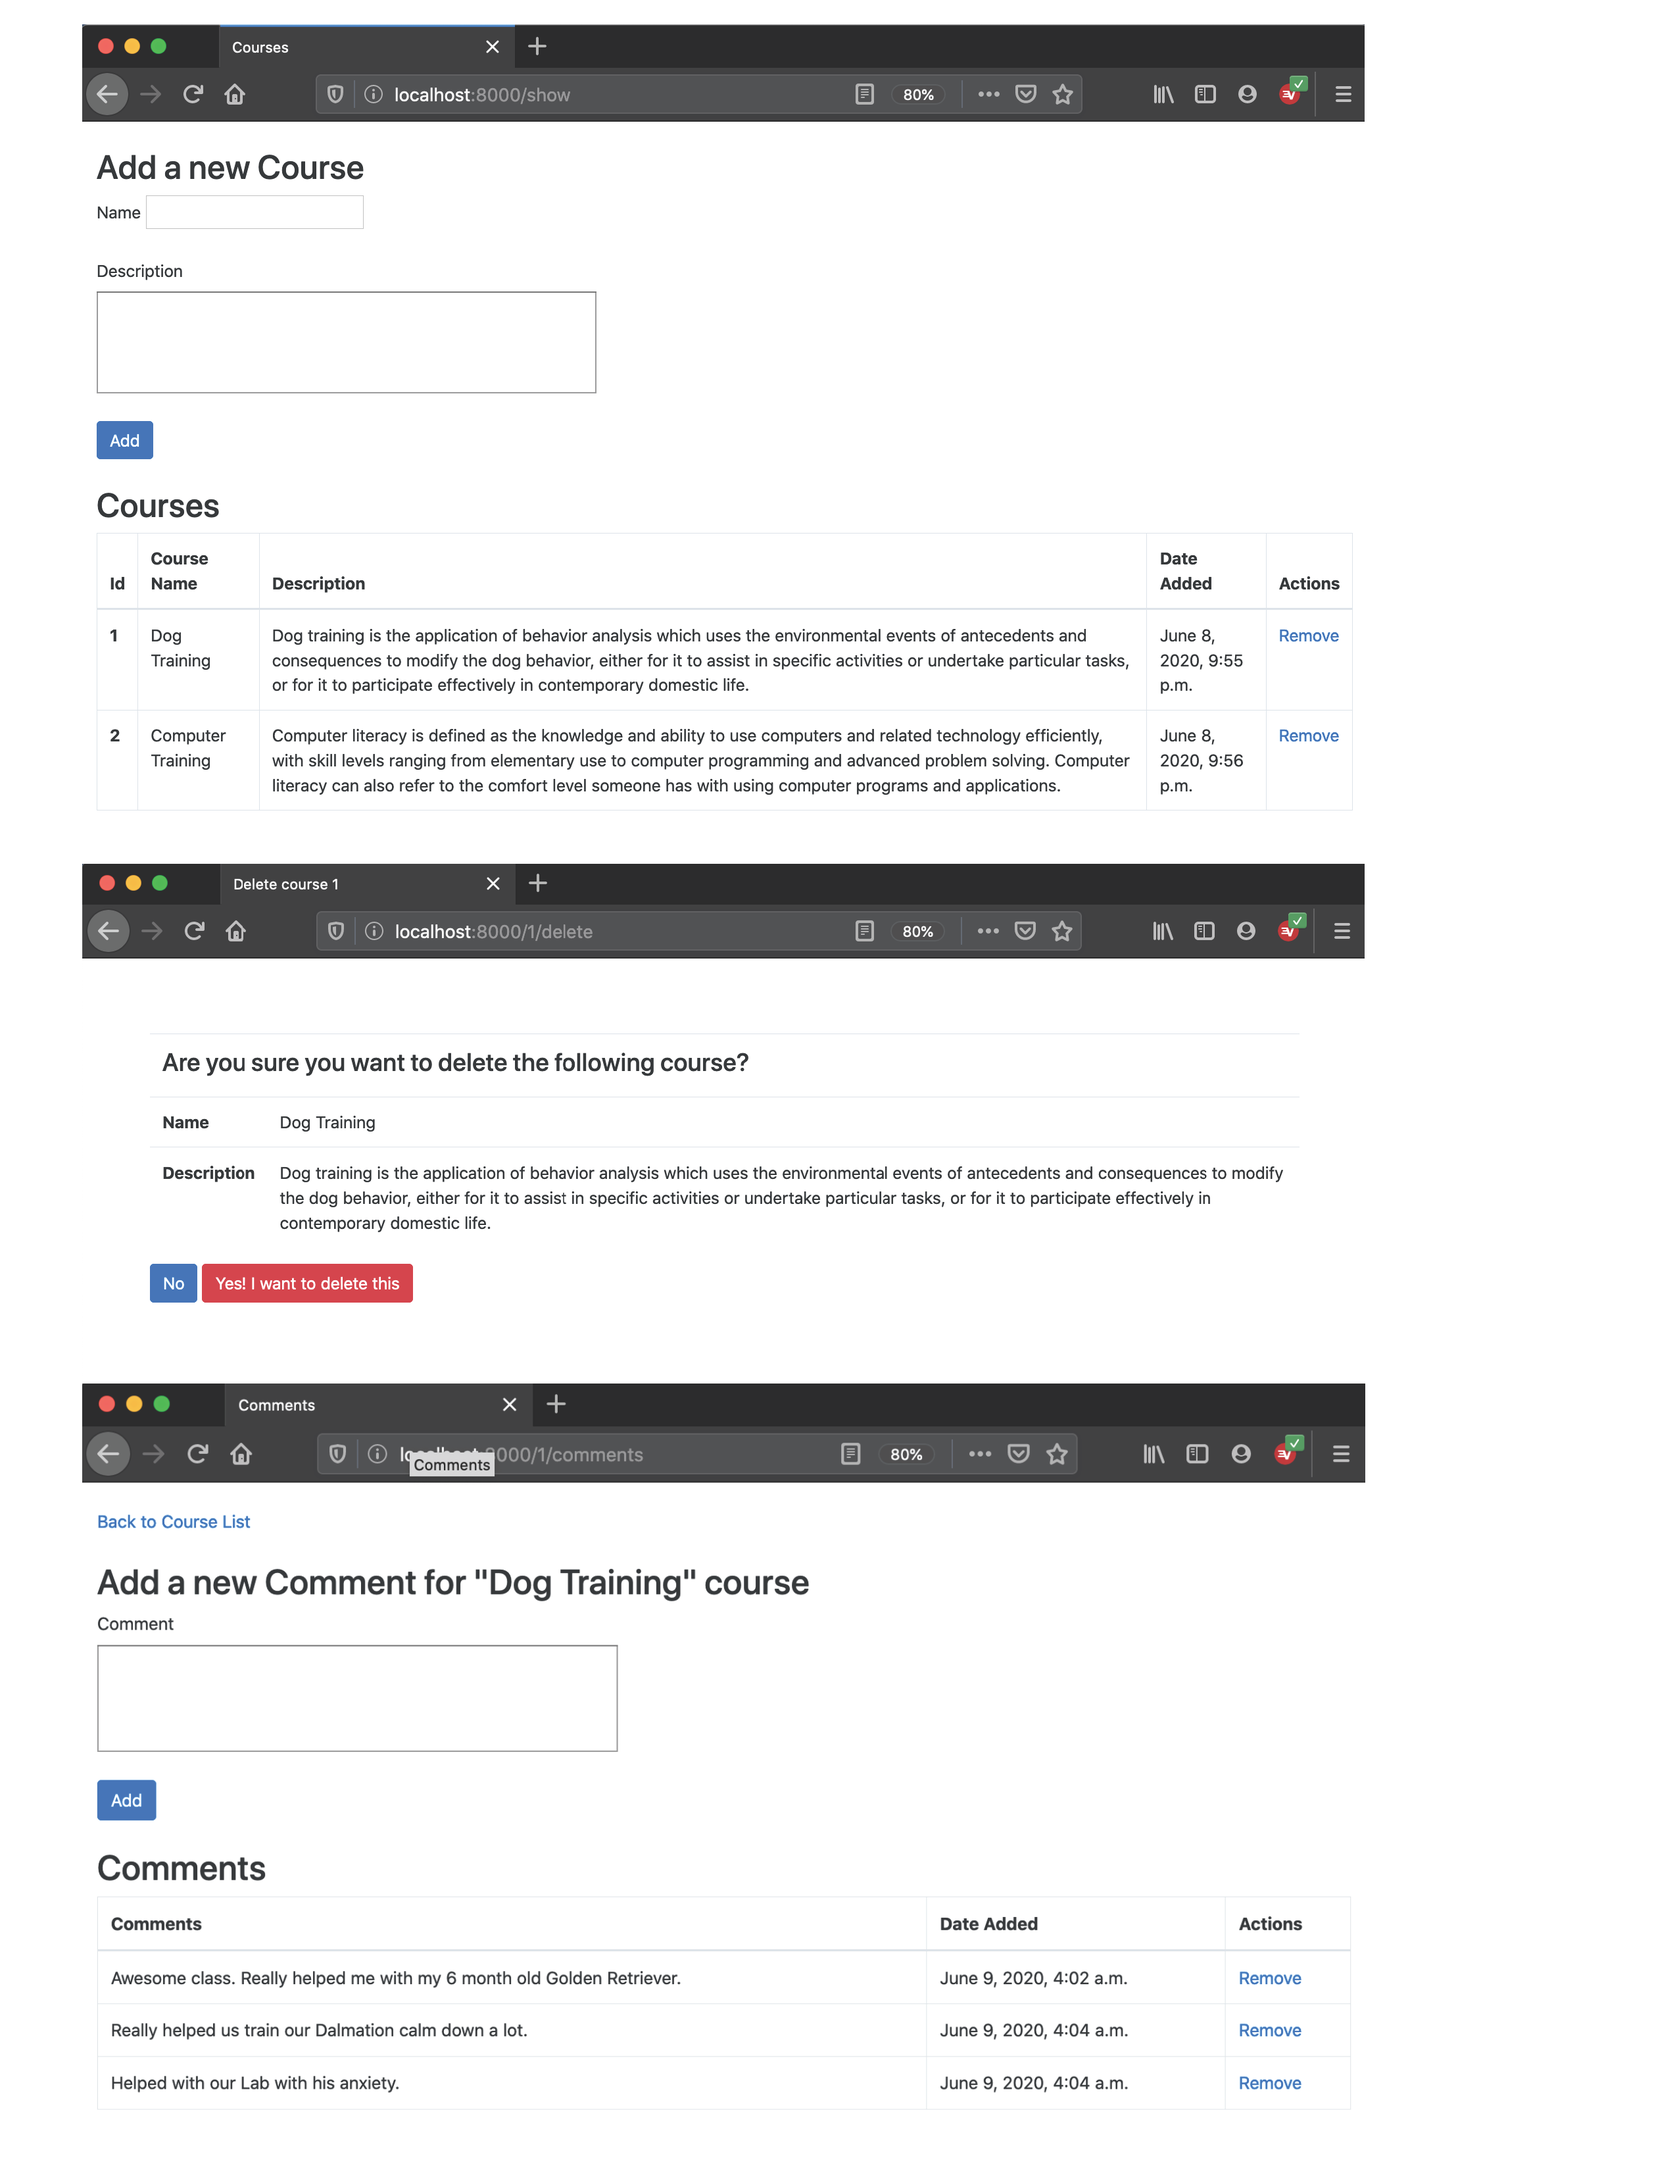
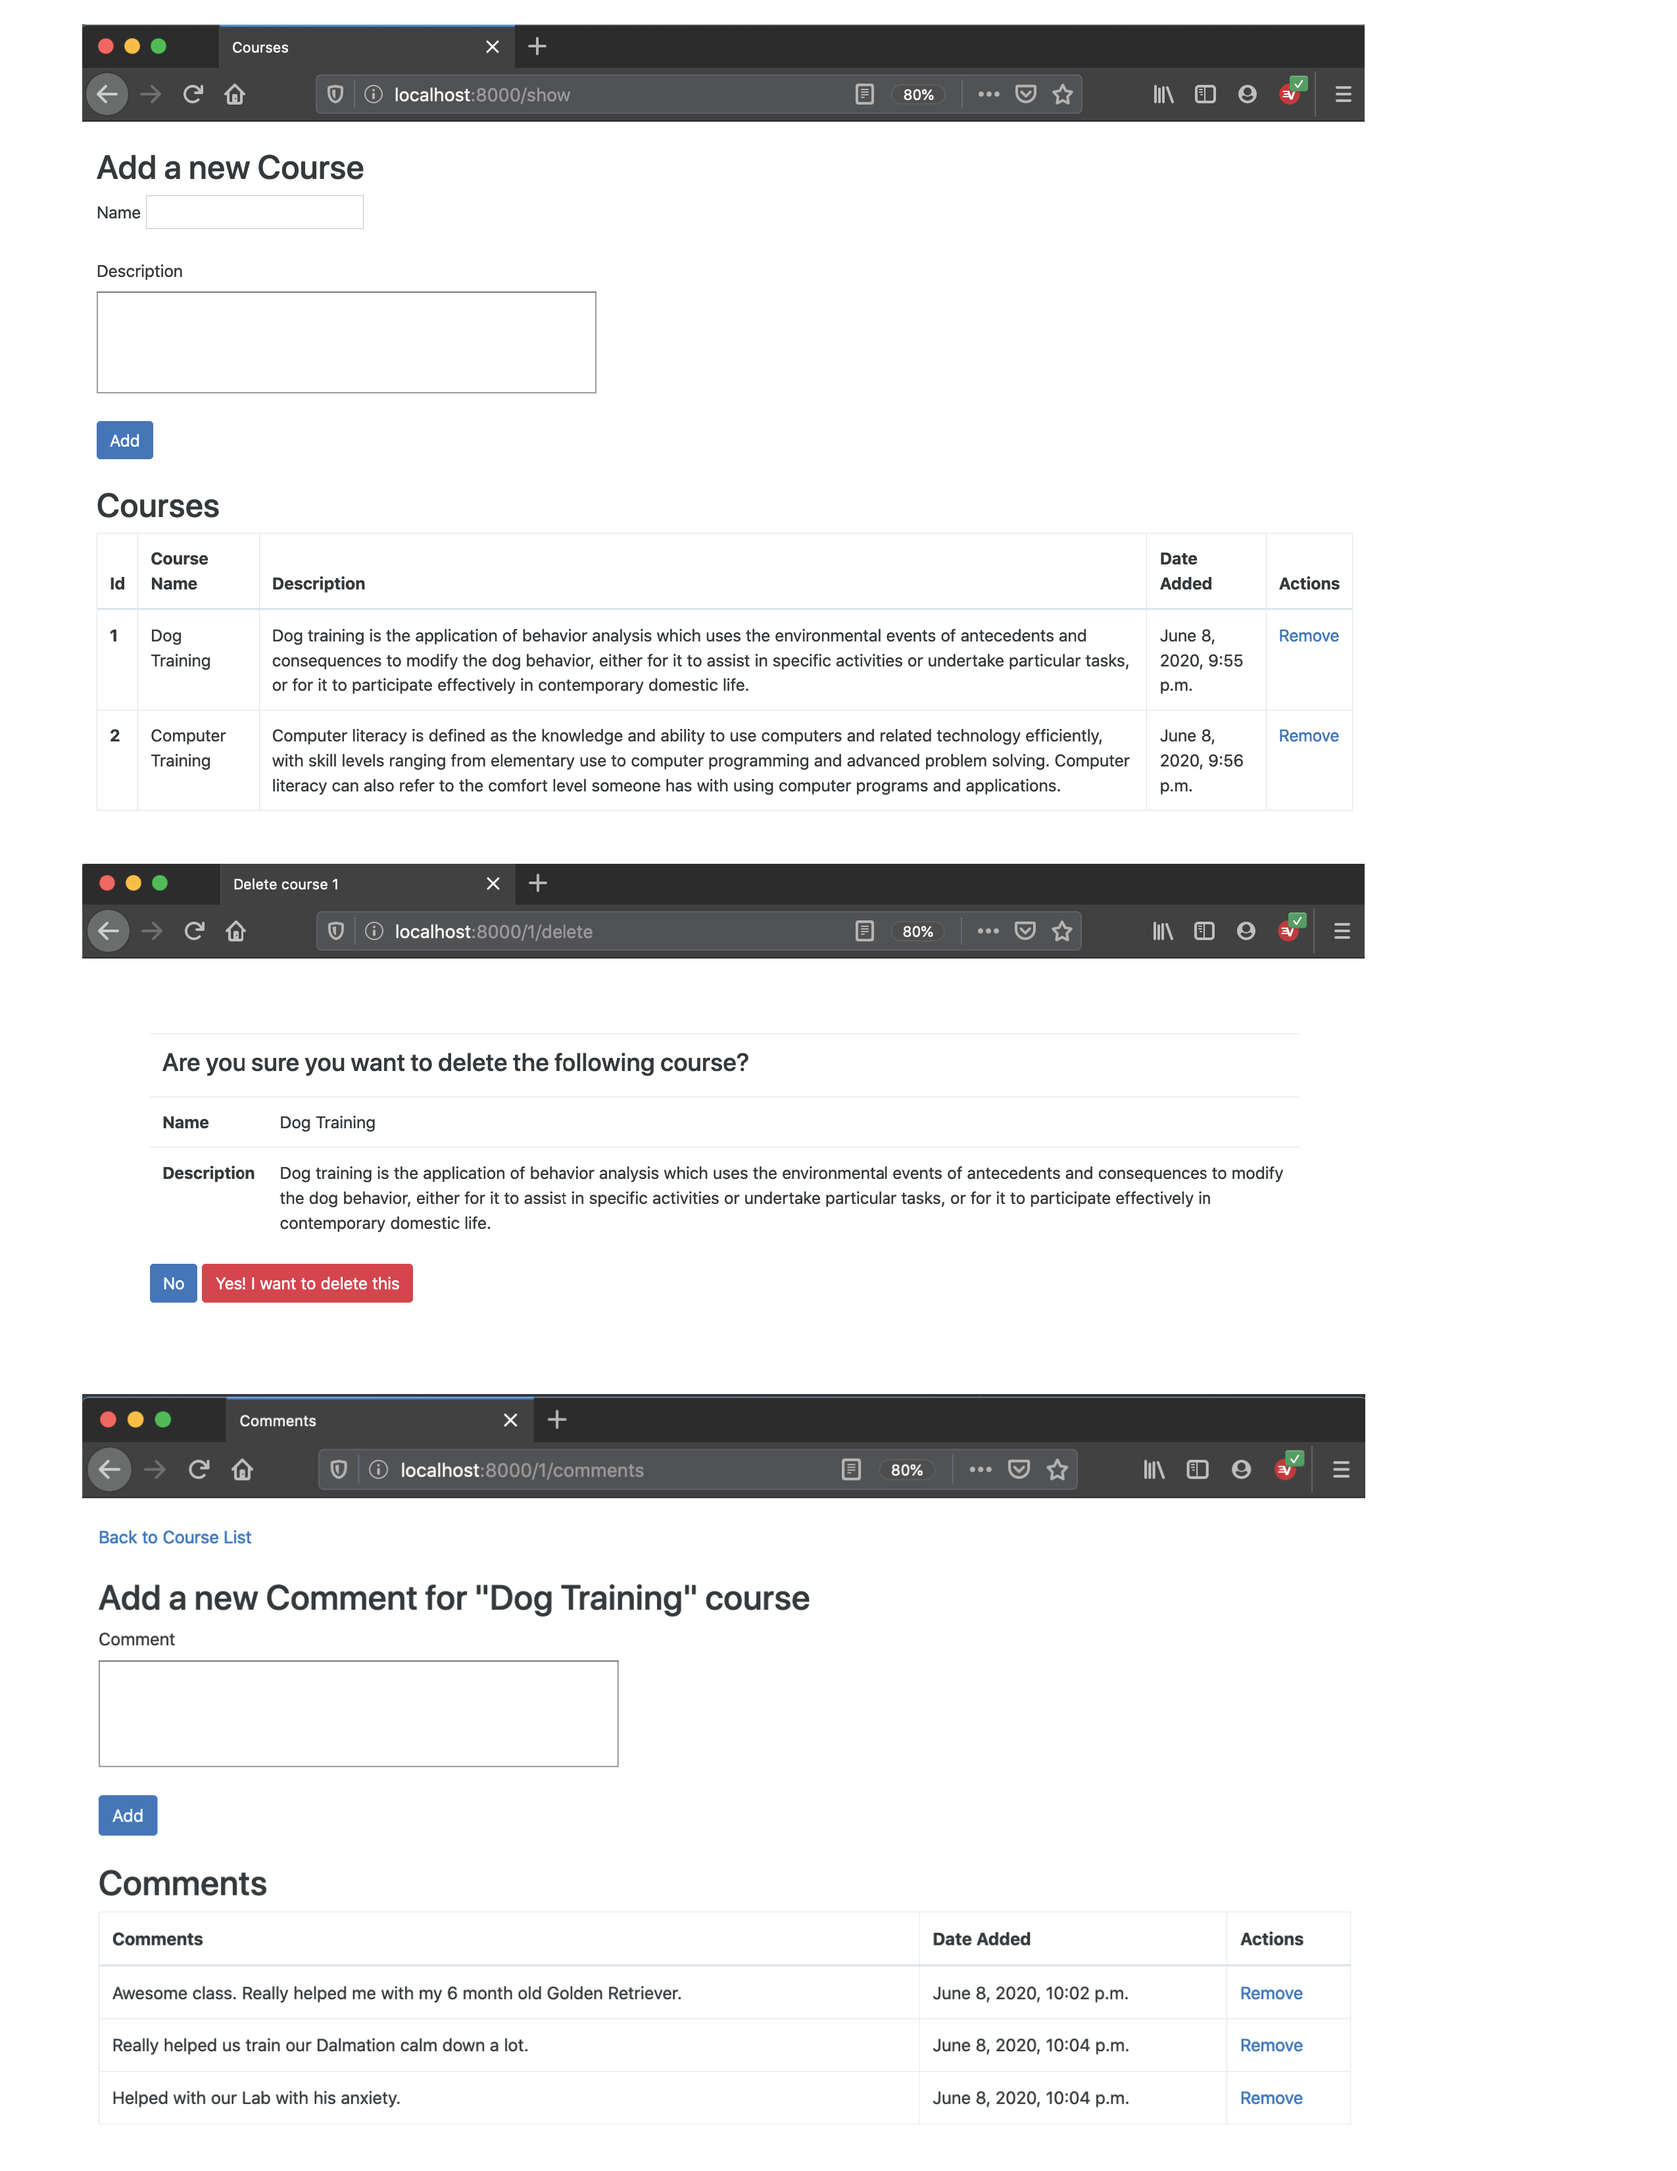
Update settings.py TIME_ZONE to America/Denver. Recreate finished image.

diff --git a/python_stack/django/django_intro/courses_project/courses_project/settings.py b/python_stack/django/django_intro/courses_project/courses_project/settings.py
@@ -107,7 +107,7 @@ AUTH_PASSWORD_VALIDATORS = [
 
 LANGUAGE_CODE = 'en-us'
 
-TIME_ZONE = 'UTC'
+TIME_ZONE = 'America/Denver'
 
 USE_I18N = True
 
